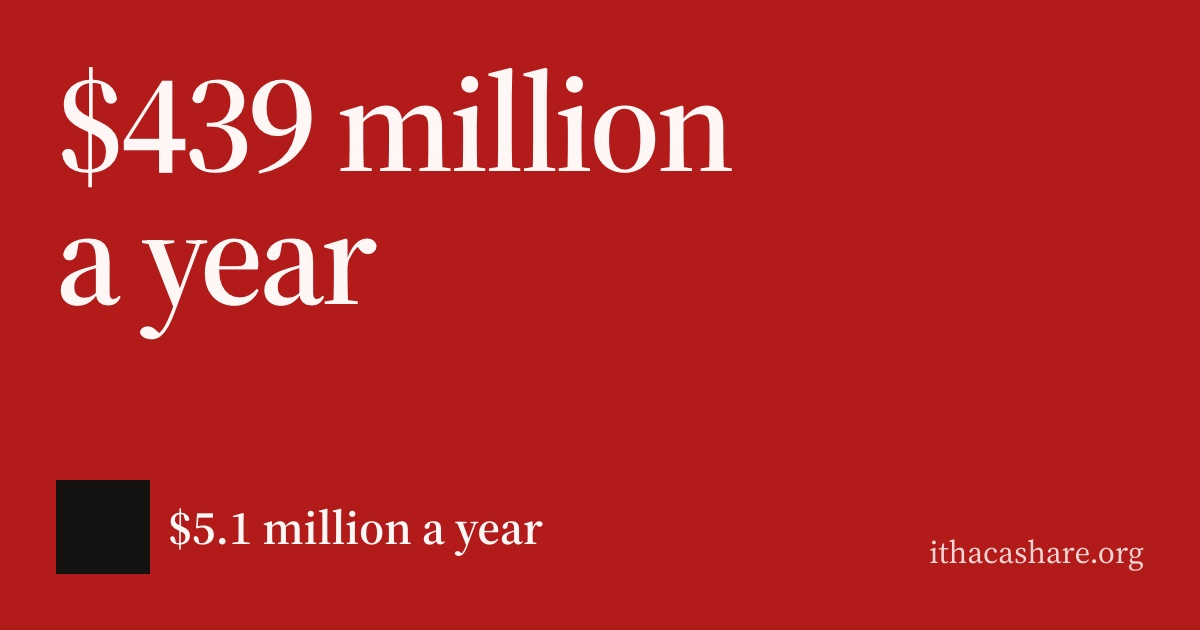
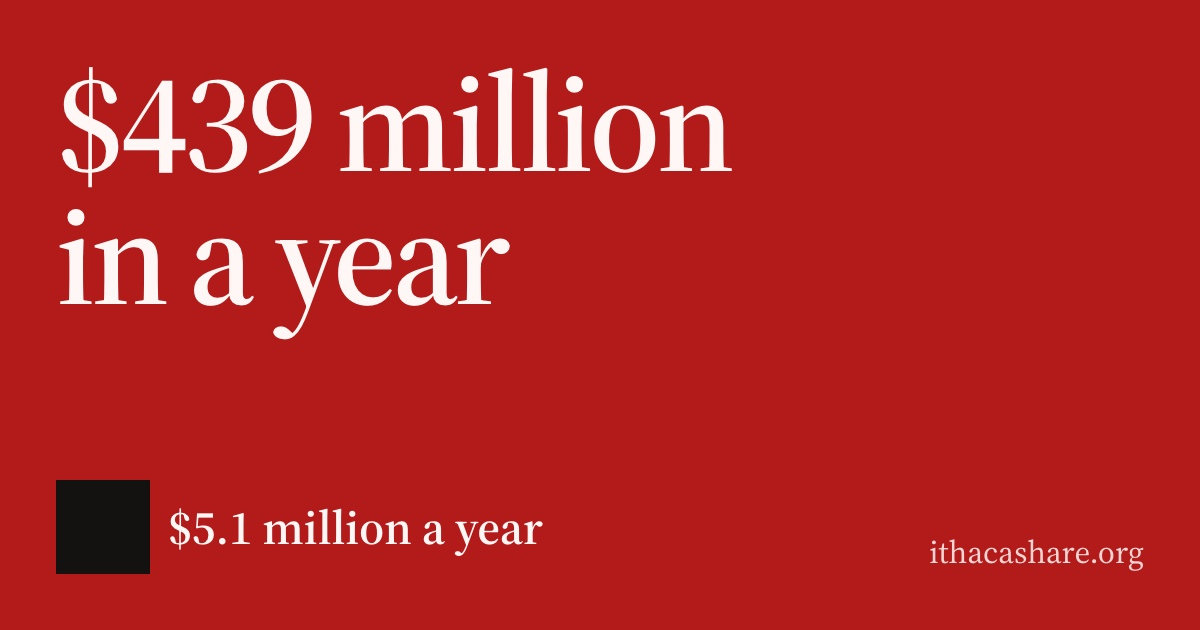
Headline: $439 million in a year (fiscal 2025)

Changed region(s): [[0.0308, 0.3317, 0.4317, 0.5429], [0.2158, 0.5127, 0.2467, 0.5429]]

diff --git a/public/index.html b/public/index.html
@@ -4,7 +4,7 @@
   <meta charset="utf-8">
   <meta name="viewport" content="width=device-width, initial-scale=1">
   <title>Ithaca Share: Cornell’s endowment and Ithaca’s wastewater plant</title>
-  <meta name="description" content="Each year Cornell’s endowment pays out $439 million. Cornell’s voluntary payments to Ithaca governments are about $5.1 million a year, drawn to the same scale.">
+  <meta name="description" content="In fiscal 2025 Cornell’s endowment paid out $439 million. Cornell’s voluntary payments to Ithaca governments are about $5.1 million a year, drawn to the same scale.">
   <meta name="theme-color" content="#f3f0e8">
   <link rel="canonical" href="https://ithacashare.org/">
 
@@ -12,12 +12,12 @@
   <meta property="og:site_name" content="Ithaca Share">
   <meta property="og:url" content="https://ithacashare.org/">
   <meta property="og:title" content="Ithaca Share: Cornell’s endowment and Ithaca’s wastewater plant">
-  <meta property="og:description" content="Each year Cornell’s endowment pays out $439 million. Cornell’s voluntary payments to Ithaca governments are about $5.1 million a year, drawn to the same scale.">
-  <meta property="og:image" content="https://ithacashare.org/og.jpg?v=6">
+  <meta property="og:description" content="In fiscal 2025 Cornell’s endowment paid out $439 million. Cornell’s voluntary payments to Ithaca governments are about $5.1 million a year, drawn to the same scale.">
+  <meta property="og:image" content="https://ithacashare.org/og.jpg?v=7">
   <meta property="og:image:type" content="image/jpeg">
   <meta property="og:image:width" content="1200">
   <meta property="og:image:height" content="630">
-  <meta property="og:image:alt" content="A red field for $439 million a year with a black square, drawn to scale, for $5.1 million a year.">
+  <meta property="og:image:alt" content="A red field for $439 million paid out in fiscal 2025 with a black square, drawn to scale, for $5.1 million a year.">
   <meta name="twitter:card" content="summary_large_image">
 
   <link rel="icon" href="/favicon.svg" type="image/svg+xml">
@@ -32,7 +32,7 @@
       <figure class="poster" style="--pay-ratio: sqrt(439000000 / 5125000)">
         <div>
           <h1>
-            <a href="https://statements.cornell.edu/2025/20251028-university-endowment.cfm">$439 million a year.</a><br>
+            <a href="https://statements.cornell.edu/2025/20251028-university-endowment.cfm">$439 million in a year.</a><br>
             <a href="https://www.ehs.cornell.edu/environmental-compliance/water-management/municipal-sanitary-sewer">No wastewater plant.</a>
           </h1>
           <p class="poster-sub">Paid out by Cornell’s $11.8 billion endowment in fiscal 2025.</p>

diff --git a/og/og.html b/og/og.html
@@ -29,7 +29,7 @@
 </style>
 </head>
 <body>
-  <div class="big">$439 million<br>a year</div>
+  <div class="big">$439 million<br>in a year</div>
   <div class="foot">
     <div class="pay"><div class="dot"></div>$5.1 million a year</div>
     <div class="url">ithacashare.org</div>
